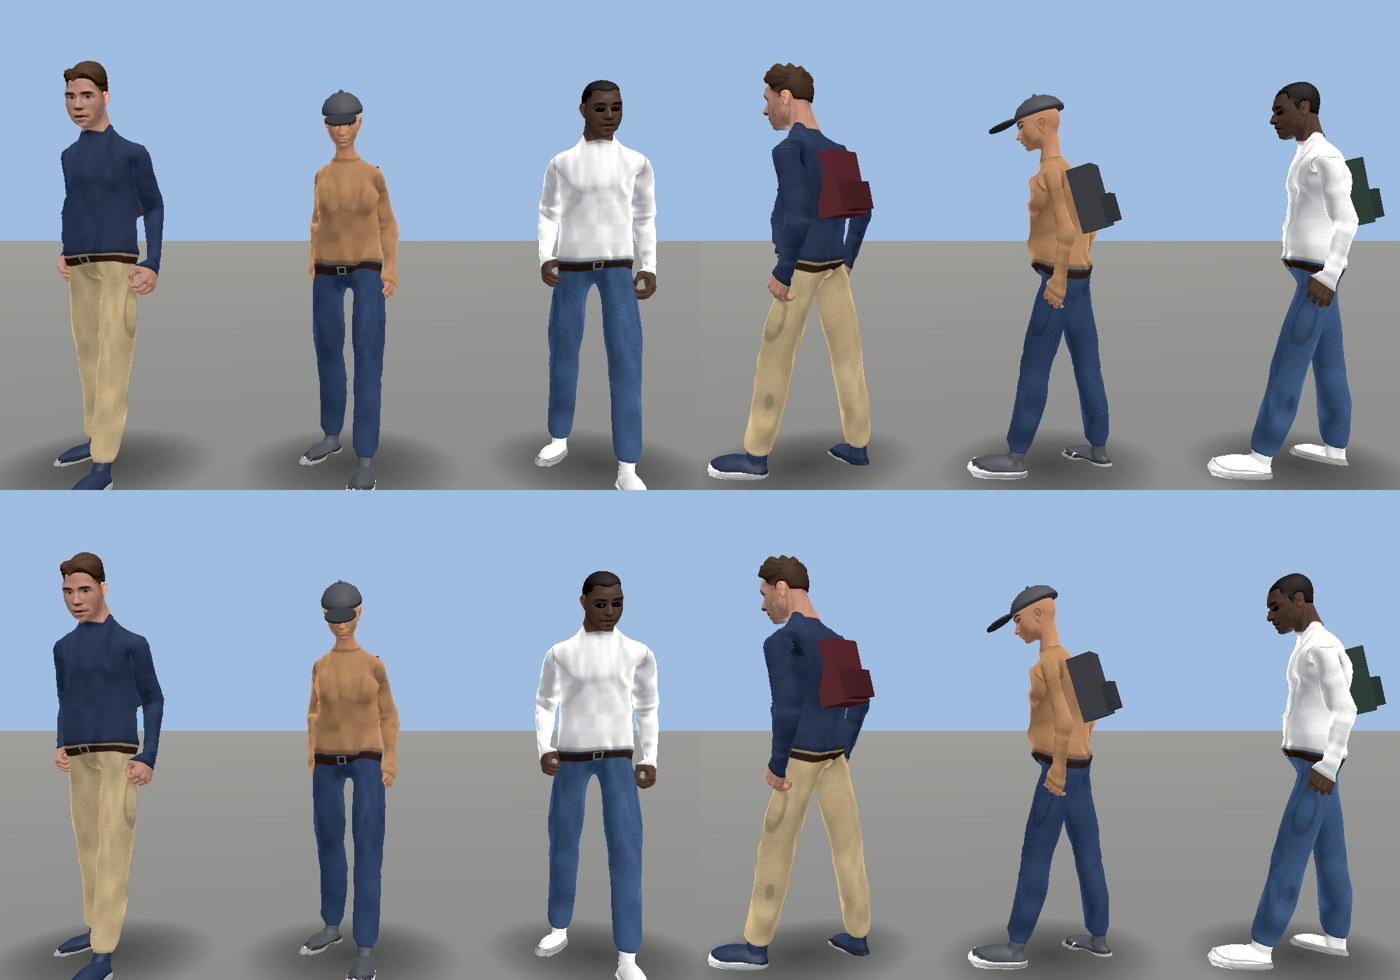
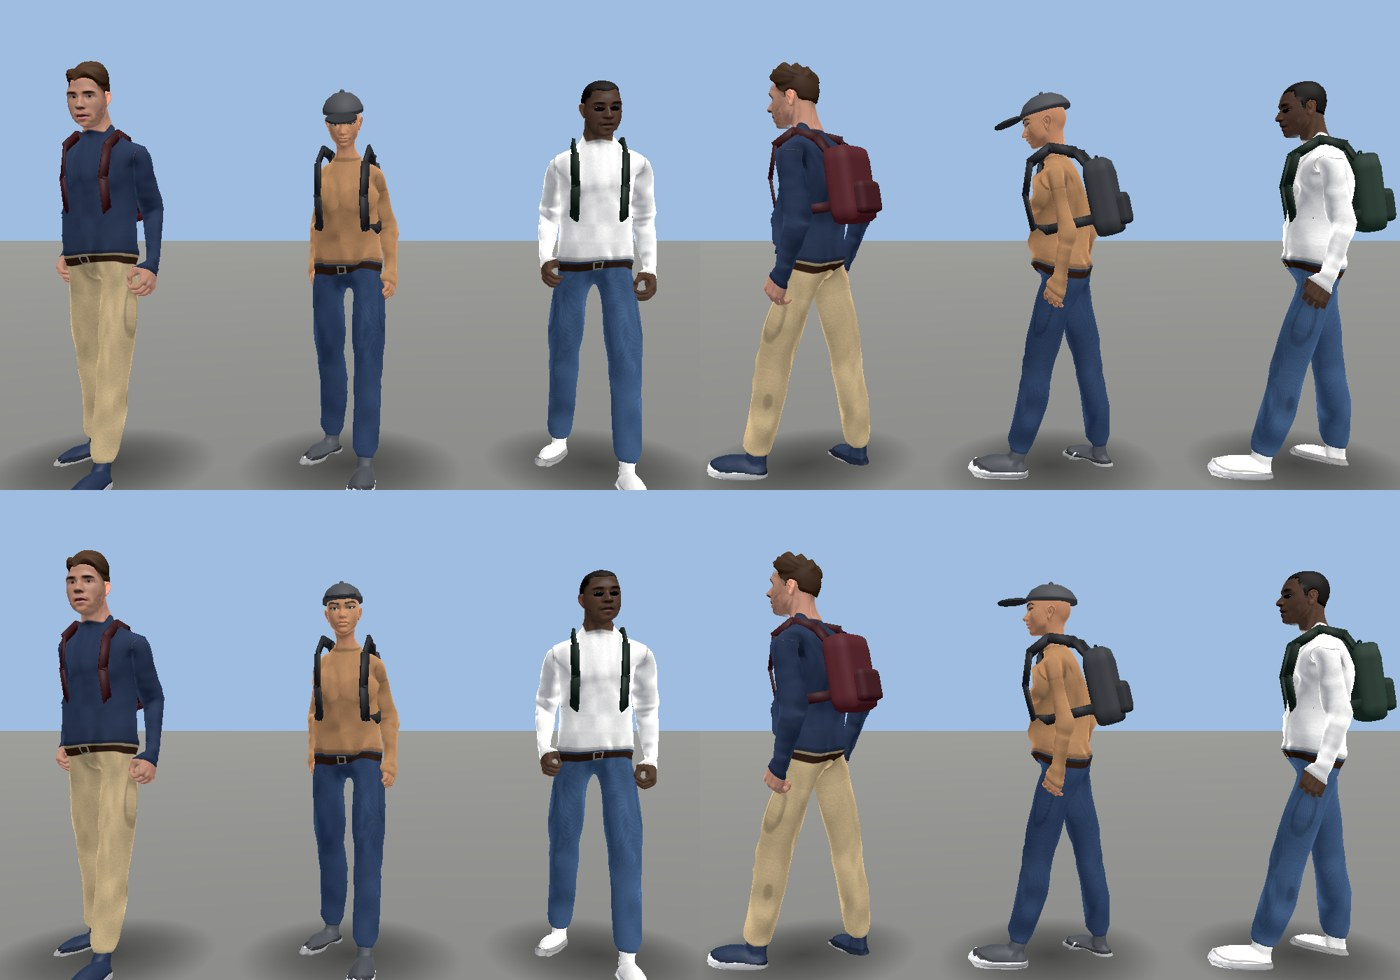
Peatones: mirada al frente (cabeza nivelada, adelanto leve) y mochilas con formas redondeadas y correas ajustadas al torso
Claude-Session: https://claude.ai/code/session_015HWWmo9PWZavoEcwL8dfWu

diff --git a/docs/PLAN_DEL_LUNES.md b/docs/PLAN_DEL_LUNES.md
@@ -454,7 +454,7 @@ para tapar el músculo y borraba las arrugas y el tejido; ahora quita el múscul
 en 0,4 (`p4_ropa_despues.jpg`; antes = `p1_postura_despues.jpg`). La piel desnuda iba con rugosidad y especular de tela
 (brillo plástico en nariz y labios): ahora rugosidad 0,76, especular 0,14 y subsuperficie 0,22 (`p4_cara_{antes,despues}.jpg`; en la captura el cambio es SUTIL: el
 brillo que queda en nariz y labios viene de la luz de borde `RIM` y de la cara de frente al sol; pendiente revisarlo con la cámara real).
-P3 HECHO 27-10 (`ideas/p3_puertas`, `p3_escaleras`, `p3_banquillo_tour`): vecinos que abren las puertas de las entradas (`PuertaVida`: llegan, tienden la mano, la hoja gira, entran/salen), gente que sube y baja escaleras peldaño a peldaño con el ciclo de paso ajustado (`EscaleraVida`: bocas del metro, escalinata del ayuntamiento, estación del teleférico) y los 5 mejores suplentes sentados en el banquillo local de la visita al estadio (`BanquilloTour`). La grada de la visita ya lleva hinchada (35 % de ocupación, VAT). S8 MUSEO INTERACTIVO (27-10, `MuseoVitrinas` + `VisorTrofeo`, `ideas/s8_museo_vitrinas`, captura `capturas_ciudad_c2/visor_trofeo.jpg`): E ante una vitrina de la planta 2 (`SalasClub.vitrinas`) abre un panel con la copa real girando en su propio `SubViewport` (ratón o A/D para girarla) y la ficha del título k (`Roles.trofeos[k]`: competición, año, final, goleadores; lo no guardado dice «Sin datos»). Ahora se guardan la final y los tres máximos goleadores al ganar la LIGA (`Roles._ficha_liga`) y la final de la Supercopa. La planta 3 del museo ampliado (copas 7+, `MuseoAmpliado.vitrinas`) también es interactiva: ambas plantas siguen el mismo orden de hitos por año (`MuseoVitrinas.hitos`). La COPA ya suma a `Roles.trofeos` con su final (`Mundo._final_de_copa`). PENDIENTE: el museo no ha crecido más en detalle. S7 PASAJEROS DEL AUTOBÚS (27-10, `PasajerosBus`, `ideas/s7_pasajeros`): en cada marquesina (`CityBuilder.esperas_bus`) esperan 2 personas mientras el jugador está a < 70 m; al parar el autobús caminan a la puerta y suben (su semilla queda en `meta "pasajeros"` del autobús, máx. 10); en la parada siguiente BAJAN las mismas personas y se van andando. Los cristales del autobús son semitransparentes y tintados (`InteriorBus`, captura `capturas_ciudad_c2/bus_interior.jpg`) y dentro hay 10 plazas con una silueta sentada por pasajero (se encienden/apagan con `meta "pasajeros"`, `ideas/s7_pasajeros`); son siluetas simples (cápsula y esfera), no peatones con esqueleto. El metro ya lo hacía (espera, subir, viajar dentro y bajar: `metro_ciudad_p1`); el tren y el teleférico son de la ejecutora. S6 PARAGUAS (27-10, `ParaguasVida`, `ideas/s6_paraguas`, `capturas_personajes/s6_paraguas.jpg`): con clima de lluvia o tormenta (`Mundo.clima()`) los peatones abren un paraguas sobre la cabeza (6 colores apagados), caminan un 25 % más rápido y hasta 5 se resguardan unos 6-10 s bajo la marquesina de una entrada (a < 4,5 m) con el paraguas cerrado; al escampar se recoge todo. El paraguas va en la MANO derecha (BoneAttachment3D a hand_r) con el brazo levantado (clip «caminar_paraguas», el caminar con brazo y antebrazo fijados; eje corregido 35°). LLUVIA EN LA CIUDAD (`PrecipitacionCiudad`: dos emisores que siguen a la cámara, topes de partículas 1800/4200/5200 según calidad frente a ~15 000 en el partido; suelo mojado `CityBuilder.mojar`; capturas `s6_lluvia_ciudad_{seco,lluvia}.jpg`; memoria del proceso 5230 → 5233 MB con 4200 partículas en software). CLIMA EN LA CIUDAD (`ClimaCiudad`, usa `Ambience.CLIMA_PARTIDO`): con lluvia/tormenta/nublado/niebla el cielo se aplana a gris sin disco solar, el sol baja de energía y se difumina, más niebla; gotas largas y claras; ruido de lluvia cada 3 s por el bus de ambiente (`lluvia_ambiente`/`lluvia_fuerte`); capturas `s6_lluvia_ciudad_{lluvia,cerca}.jpg` (la de cerca: dos peatones con el paraguas en la mano). PENDIENTE: revisar en Forward+. P1-P3 «MEJORAR» (27-10) 1/3 MOVIMIENTO NATURAL (`MovimientoNatural`, `ideas/p1_movimiento_natural`): el peatón de la ciudad arranca con rampa de 0,45 s (la velocidad del clip la sigue), si lo frenan (jugador, semáforo, el de delante) pasa a «parado» en vez de mover las piernas sin avanzar (con 0,4 s de histéresis), gira con suavidad hacia donde va a ir (mira 0,5 m por delante en la ruta, máx. 0,33 rad por fotograma en una esquina de 90°) y 2 de cada 3 peatones a < 8 m giran la cabeza hacia el jugador (`LookAtModifier3D` de `MiradaBalon`, influencia con rampa de 0,5 s). El jugador quieto que gira sobre sí da pasitos (clip «caminar» a 0,8). PENDIENTE de la pasada: inclinación del torso al girar corriendo, sin captura antes/después (un fotograma fijo no enseña el giro; la prueba mide el giro por fotograma). 2/3 POSTURA y ANATOMÍA (27-10, `PosturaQ`, `ideas/p2_postura`, `capturas_personajes/p2_postura_antes_despues.jpg`, arriba antes, abajo después): un `SkeletonModifier3D` por peatón, tras la animación, suma según su semilla manos relajadas (dedos doblados 14-22° por falange, pulgar menos), hombros caídos 4-12° y cabeza/cuello adelantados 3-14°; 35 huesos, rotaciones fijas. Ejes medidos por prueba (dedos X, hombro −Z, cuello X). PENDIENTE: lo mismo en los futbolistas del partido (no se ha tocado) y 3/3 MÁS ANIMACIONES (27-10): MIRAR ESCAPARATES (`EscaparateVida`, `ideas/p3_escaparates`): junto a las entradas (`puertas_vida`) un vecino llega por la fachada, se para a 2,6 m de la puerta, gira el cuerpo al cristal, pasea la mirada 6-9 s (`LookAtModifier3D` sobre un punto que barre el escaparate) y se va; máx. 2. SENTARSE EN UN BANCO (`GenteSentada._llegadas`, `ideas/p3_sentados`): quien ocupa un asiento MIENTRAS lo miras (a > 6 m) llega andando desde 3,2 m, se vuelve y el clip «sentarse» encadena «sentado»; los que ya estaban al acercarte siguen apareciendo sentados. El móvil y la llamada ya existían. SIN CAPTURA de las dos escenas (movimiento) y la forma de la raíz al sentarse no se ha revisado a ojo: PENDIENTE de revisar en el juego; levantarse y marcharse del banco sigue siendo desaparición instantánea. P4 PELO (27-10): el pack Quaternius del repo trae 6 mallas; la sin usar `Hair_BuzzedFemale` se estrena en el corte rapado de las MUJERES (`PeloQ.poner`, `ideas/p4_pelo_mujer`, `capturas_personajes/p4_pelo_mujer_antes_despues.jpg`, arriba antes y abajo después: asienta mejor). No hay más cortes en el repo; esperan los del Drive. P4 pasada 2 (27-10, CONTACTO): los peatones llevan una mancha de sombra redonda y suave bajo los pies (`PeatonQ.sombra_contacto`, una malla y un material compartidos, hasta 70 m) para que no «floten» más allá del alcance de la sombra del sol (`ideas/p4_contacto`, `capturas_personajes/p4_contacto_antes_despues.jpg`, arriba antes, abajo después). LOD SIN SALTOS: las mallas del peatón se disuelven con tramado (`VISIBILITY_RANGE_FADE_SELF`) en los 20 m de margen en vez de desaparecer de golpe (solo Forward+/Mobile; en Compatibility sigue el salto). Queda en P4: pelo con mechones (pide mallas mejores). Falta P3: capturas de escaleras en Forward+, clips propios de abrir puerta/subir escalón (el pack gratuito solo trae «Interact»), peatones que entran en tiendas pequeñas (no tienen puerta registrada); y P4: pelo (mechones poligonales). PROBADO Y DESCARTADO (27-10): suavizar las normales de las 4 mallas de pelo del pack
+P3 HECHO 27-10 (`ideas/p3_puertas`, `p3_escaleras`, `p3_banquillo_tour`): vecinos que abren las puertas de las entradas (`PuertaVida`: llegan, tienden la mano, la hoja gira, entran/salen), gente que sube y baja escaleras peldaño a peldaño con el ciclo de paso ajustado (`EscaleraVida`: bocas del metro, escalinata del ayuntamiento, estación del teleférico) y los 5 mejores suplentes sentados en el banquillo local de la visita al estadio (`BanquilloTour`). La grada de la visita ya lleva hinchada (35 % de ocupación, VAT). S8 MUSEO INTERACTIVO (27-10, `MuseoVitrinas` + `VisorTrofeo`, `ideas/s8_museo_vitrinas`, captura `capturas_ciudad_c2/visor_trofeo.jpg`): E ante una vitrina de la planta 2 (`SalasClub.vitrinas`) abre un panel con la copa real girando en su propio `SubViewport` (ratón o A/D para girarla) y la ficha del título k (`Roles.trofeos[k]`: competición, año, final, goleadores; lo no guardado dice «Sin datos»). Ahora se guardan la final y los tres máximos goleadores al ganar la LIGA (`Roles._ficha_liga`) y la final de la Supercopa. La planta 3 del museo ampliado (copas 7+, `MuseoAmpliado.vitrinas`) también es interactiva: ambas plantas siguen el mismo orden de hitos por año (`MuseoVitrinas.hitos`). La COPA ya suma a `Roles.trofeos` con su final (`Mundo._final_de_copa`). PENDIENTE: el museo no ha crecido más en detalle. S7 PASAJEROS DEL AUTOBÚS (27-10, `PasajerosBus`, `ideas/s7_pasajeros`): en cada marquesina (`CityBuilder.esperas_bus`) esperan 2 personas mientras el jugador está a < 70 m; al parar el autobús caminan a la puerta y suben (su semilla queda en `meta "pasajeros"` del autobús, máx. 10); en la parada siguiente BAJAN las mismas personas y se van andando. Los cristales del autobús son semitransparentes y tintados (`InteriorBus`, captura `capturas_ciudad_c2/bus_interior.jpg`) y dentro hay 10 plazas con una silueta sentada por pasajero (se encienden/apagan con `meta "pasajeros"`, `ideas/s7_pasajeros`); son siluetas simples (cápsula y esfera), no peatones con esqueleto. El metro ya lo hacía (espera, subir, viajar dentro y bajar: `metro_ciudad_p1`); el tren y el teleférico son de la ejecutora. S6 PARAGUAS (27-10, `ParaguasVida`, `ideas/s6_paraguas`, `capturas_personajes/s6_paraguas.jpg`): con clima de lluvia o tormenta (`Mundo.clima()`) los peatones abren un paraguas sobre la cabeza (6 colores apagados), caminan un 25 % más rápido y hasta 5 se resguardan unos 6-10 s bajo la marquesina de una entrada (a < 4,5 m) con el paraguas cerrado; al escampar se recoge todo. El paraguas va en la MANO derecha (BoneAttachment3D a hand_r) con el brazo levantado (clip «caminar_paraguas», el caminar con brazo y antebrazo fijados; eje corregido 35°). LLUVIA EN LA CIUDAD (`PrecipitacionCiudad`: dos emisores que siguen a la cámara, topes de partículas 1800/4200/5200 según calidad frente a ~15 000 en el partido; suelo mojado `CityBuilder.mojar`; capturas `s6_lluvia_ciudad_{seco,lluvia}.jpg`; memoria del proceso 5230 → 5233 MB con 4200 partículas en software). CLIMA EN LA CIUDAD (`ClimaCiudad`, usa `Ambience.CLIMA_PARTIDO`): con lluvia/tormenta/nublado/niebla el cielo se aplana a gris sin disco solar, el sol baja de energía y se difumina, más niebla; gotas largas y claras; ruido de lluvia cada 3 s por el bus de ambiente (`lluvia_ambiente`/`lluvia_fuerte`); capturas `s6_lluvia_ciudad_{lluvia,cerca}.jpg` (la de cerca: dos peatones con el paraguas en la mano). PENDIENTE: revisar en Forward+. P1-P3 «MEJORAR» (27-10) 1/3 MOVIMIENTO NATURAL (`MovimientoNatural`, `ideas/p1_movimiento_natural`): el peatón de la ciudad arranca con rampa de 0,45 s (la velocidad del clip la sigue), si lo frenan (jugador, semáforo, el de delante) pasa a «parado» en vez de mover las piernas sin avanzar (con 0,4 s de histéresis), gira con suavidad hacia donde va a ir (mira 0,5 m por delante en la ruta, máx. 0,33 rad por fotograma en una esquina de 90°) y 2 de cada 3 peatones a < 8 m giran la cabeza hacia el jugador (`LookAtModifier3D` de `MiradaBalon`, influencia con rampa de 0,5 s). El jugador quieto que gira sobre sí da pasitos (clip «caminar» a 0,8). PENDIENTE de la pasada: inclinación del torso al girar corriendo, sin captura antes/después (un fotograma fijo no enseña el giro; la prueba mide el giro por fotograma). 2/3 POSTURA y ANATOMÍA (27-10, `PosturaQ`, `ideas/p2_postura`, `capturas_personajes/p2_postura_antes_despues.jpg`, arriba antes, abajo después): un `SkeletonModifier3D` por peatón, tras la animación, suma según su semilla manos relajadas (dedos doblados 14-22° por falange, pulgar menos), hombros caídos 4-12° y cabeza/cuello adelantados 3-14°; 35 huesos, rotaciones fijas. Ejes medidos por prueba (dedos X, hombro −Z, cuello X). REVISIÓN DEL LÍDER (27-10): el adelanto de cuello es leve (1-6°) y la cabeza se NIVELA (corrige el 85 % del cabeceo medido; solo 1 de cada 12 conserva la cabeza gacha) para mirar al horizonte de perfil. MOCHILAS (`MochilaQ`, `capturas_personajes/p4_mochila_antes_despues.jpg`, arriba cajas, abajo ahora): cuerpo y bolsillo de bordes redondeados, asa y dos correas que pasan por el hombro, bajan por el pecho y vuelven bajo el brazo pegadas al torso (medido en `spine_03`). PENDIENTE: lo mismo en los futbolistas del partido (no se ha tocado) y 3/3 MÁS ANIMACIONES (27-10): MIRAR ESCAPARATES (`EscaparateVida`, `ideas/p3_escaparates`): junto a las entradas (`puertas_vida`) un vecino llega por la fachada, se para a 2,6 m de la puerta, gira el cuerpo al cristal, pasea la mirada 6-9 s (`LookAtModifier3D` sobre un punto que barre el escaparate) y se va; máx. 2. SENTARSE EN UN BANCO (`GenteSentada._llegadas`, `ideas/p3_sentados`): quien ocupa un asiento MIENTRAS lo miras (a > 6 m) llega andando desde 3,2 m, se vuelve y el clip «sentarse» encadena «sentado»; los que ya estaban al acercarte siguen apareciendo sentados. El móvil y la llamada ya existían. SIN CAPTURA de las dos escenas (movimiento) y la forma de la raíz al sentarse no se ha revisado a ojo: PENDIENTE de revisar en el juego; levantarse y marcharse del banco sigue siendo desaparición instantánea. P4 PELO (27-10): el pack Quaternius del repo trae 6 mallas; la sin usar `Hair_BuzzedFemale` se estrena en el corte rapado de las MUJERES (`PeloQ.poner`, `ideas/p4_pelo_mujer`, `capturas_personajes/p4_pelo_mujer_antes_despues.jpg`, arriba antes y abajo después: asienta mejor). No hay más cortes en el repo; esperan los del Drive. P4 pasada 2 (27-10, CONTACTO): los peatones llevan una mancha de sombra redonda y suave bajo los pies (`PeatonQ.sombra_contacto`, una malla y un material compartidos, hasta 70 m) para que no «floten» más allá del alcance de la sombra del sol (`ideas/p4_contacto`, `capturas_personajes/p4_contacto_antes_despues.jpg`, arriba antes, abajo después). LOD SIN SALTOS: las mallas del peatón se disuelven con tramado (`VISIBILITY_RANGE_FADE_SELF`) en los 20 m de margen en vez de desaparecer de golpe (solo Forward+/Mobile; en Compatibility sigue el salto). Queda en P4: pelo con mechones (pide mallas mejores). Falta P3: capturas de escaleras en Forward+, clips propios de abrir puerta/subir escalón (el pack gratuito solo trae «Interact»), peatones que entran en tiendas pequeñas (no tienen puerta registrada); y P4: pelo (mechones poligonales). PROBADO Y DESCARTADO (27-10): suavizar las normales de las 4 mallas de pelo del pack
 (promedio por vértice) empeora: las tarjetas de mechón comparten vértices y salen manchas claras/oscuras; el pelo pide mallas
 mejores (o más cortes del pack de Quaternius), no un cambio de sombreado. VEREDICTO DEL DUEÑO (27-10): «MEJORAR» (P1-P3 no bastan: seguir subiendo anatomía, movimiento, animaciones y acabado; la C2 de ciudad sigue hasta agotar P0 y P1).
 
